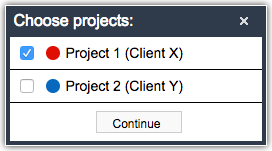
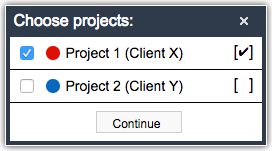
Edited documentation

Changed region(s): [[0.8529, 0.2914, 0.9412, 0.3974], [0.9118, 0.5033, 0.9412, 0.6358], [0.8529, 0.5033, 0.8824, 0.6358]]

diff --git a/README.md b/README.md
@@ -33,6 +33,7 @@ Chrome extension for importing a single day from toggl to soncoso daily time rec
 
 ![](screenshots/screenshot_setup_3.png)
 
+- Additionally there's the option to automatically import all time entries for a day when there is only one project listed for this day.
 
 ## Usage
 
@@ -43,6 +44,7 @@ Chrome extension for importing a single day from toggl to soncoso daily time rec
 ![](screenshots/screenshot_usage_1.png)
 
 - After the time entries for the selected day have been loaded you will be asked to select all projects to import
+- The right checkbox offers the possiblity to include the project name as a prefix for the description of all related entries (e.g. `[Project 1] Ticket 1`), this option will be saved and automatically set in further imports
 
 ![](screenshots/screenshot_usage_2.png)
 
